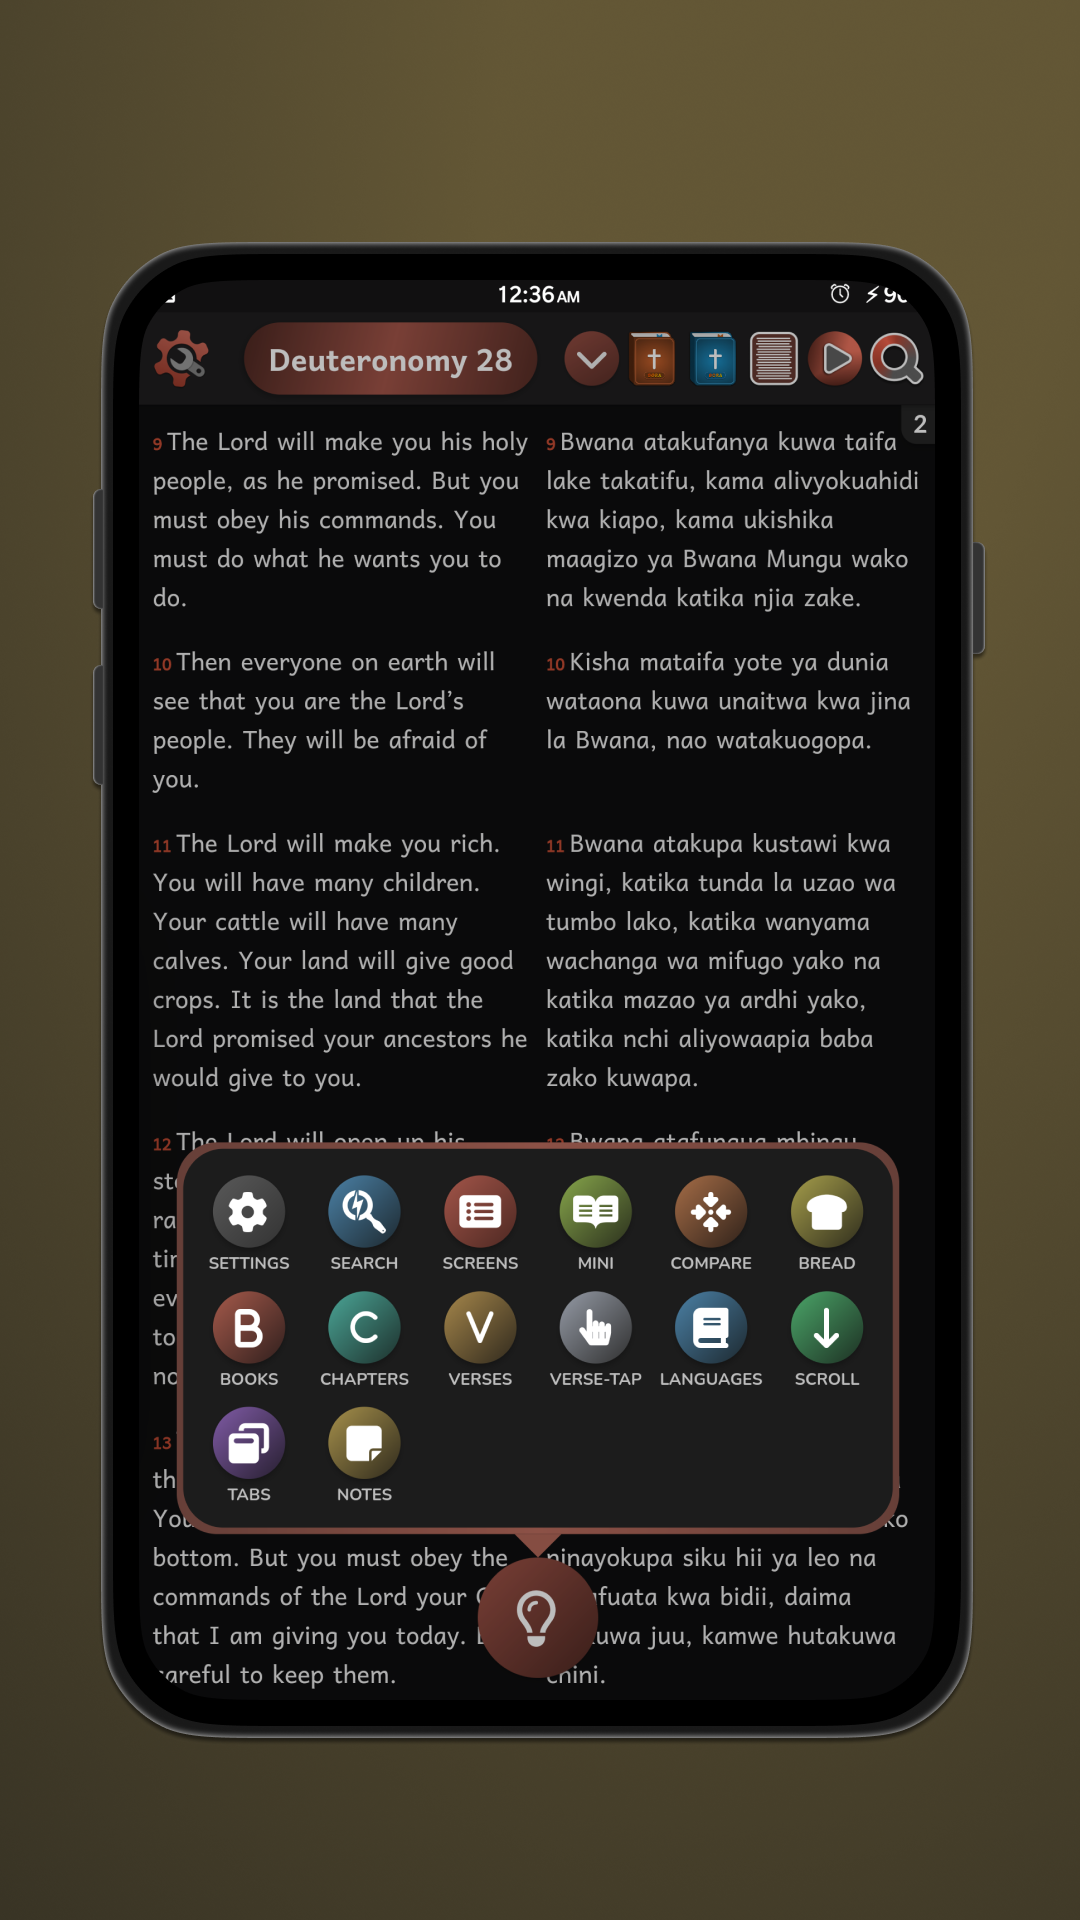
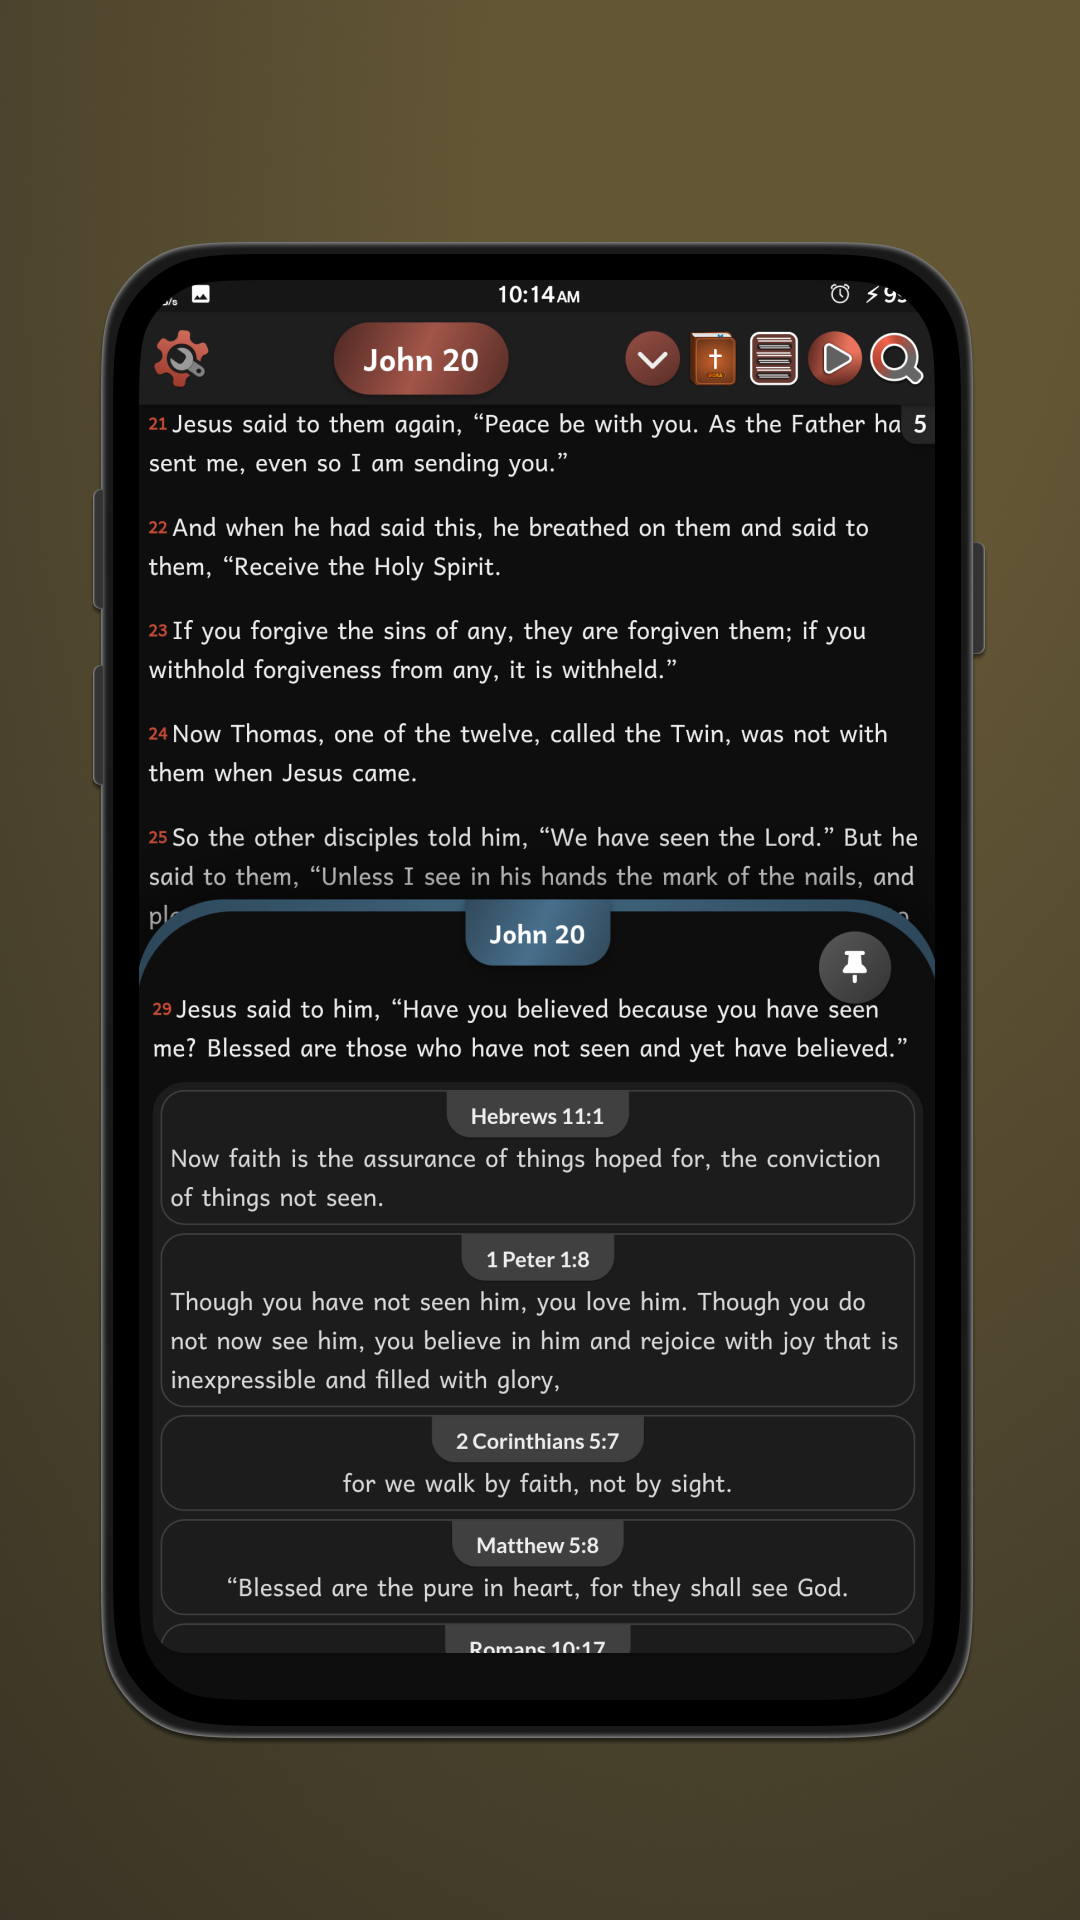
v2.0.2-004

Changed region(s): [[0.1222, 0.125, 0.8556, 0.875]]

diff --git a/README.md b/README.md
@@ -5,17 +5,19 @@
 
 The best bible app with a user-friendly interface,with more than 300 languages, offline mode, no ads, and it is completely **FREE**
 
-## v2.0.2-003 (BETA)        ---    (updated on July 25, 2025)
+## v2.0.2-004 (BETA)        ---    (updated on August 28, 2025)
 <!-- ### Improved performance, Fixed Bugs. Added new features, Notes, Compare, Backup & Restore and more.. -->
-### Improved performance and fixed bugs. added Notes, Compare, Backup & Restore, and other new features are now available.
+<!-- ### Improved performance and fixed bugs. added Notes, Compare, Backup & Restore, and other new features are now available. -->
+### Fixed bugs, added "Related" (Cross References)
 
 <p align="center">
 	<img src="https://github.com/prayzjomba/bibliabora/blob/main/screenshots/v202-4.png" width="250px"/>
 	<img src="https://github.com/prayzjomba/bibliabora/blob/main/screenshots/v202-5.png" width="250px"/>
+	<img src="https://github.com/prayzjomba/bibliabora/blob/main/screenshots/v202-6.png" width="250px"/>
 </p>
 
-[![image1](https://github.com/prayzjomba/bibliabora/blob/main/logo/d1.png)](https://github.com/prayzjomba/bibliabora/releases/download/v2.0.2/BibliaBora_v2.0.2-003.apk)
-[![image1](https://github.com/prayzjomba/bibliabora/blob/main/logo/d2.png)](https://github.com/prayzjomba/bibliabora/releases/download/v2.0.2/BibliaBora_v2.0.2-003-offline.apk)
+[![image1](https://github.com/prayzjomba/bibliabora/blob/main/logo/d1.png)](https://github.com/prayzjomba/bibliabora/releases/download/v2.0.2/BibliaBora_v2.0.2-004.apk)
+[![image1](https://github.com/prayzjomba/bibliabora/blob/main/logo/d2.png)](https://github.com/prayzjomba/bibliabora/releases/download/v2.0.2/BibliaBora_v2.0.2-004-offline.apk)
 
 <p align="center">
 	<img src="https://github.com/prayzjomba/bibliabora/blob/main/screenshots/v202-1.png" width="250px"/>
